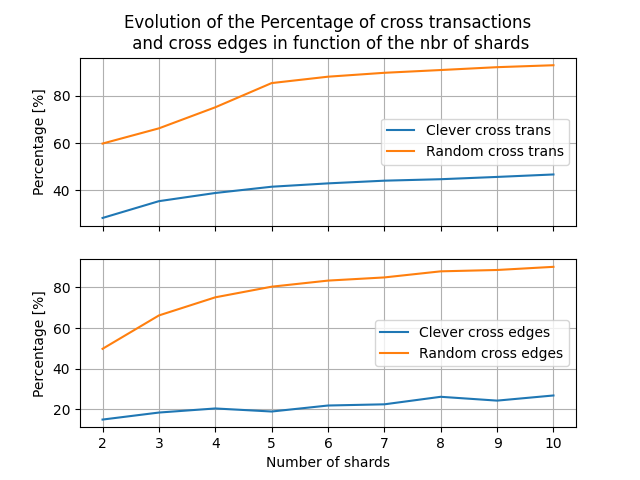
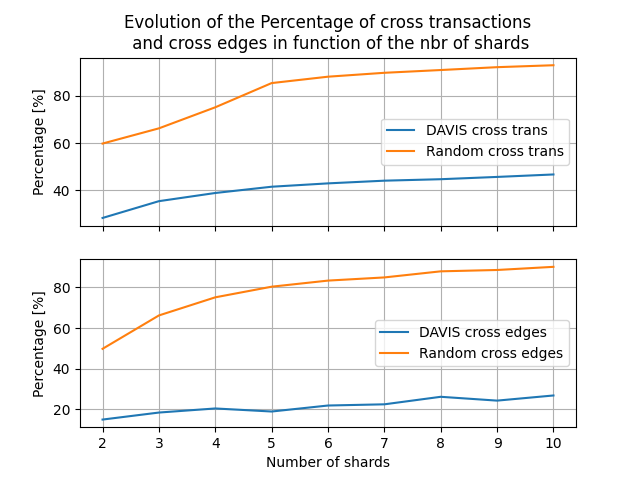
update

Changed region(s): [[0.6562, 0.6562, 0.875, 0.7188], [0.6562, 0.25, 0.875, 0.2812]]

diff --git a/chainspacemeasurements/chainspacemeasurements/Resultats/range_300k_300100/mode5/fakeGraph.py b/chainspacemeasurements/chainspacemeasurements/Resultats/range_300k_300100/mode5/fakeGraph.py
@@ -81,7 +81,7 @@ asymetricerrorStd = [tpsStd, tpsStd]
 x = shardList
 y = tpsMean
 fig, (ax0, ax1) = plt.subplots(nrows=2, sharex=True)
-ax0.errorbar(x, y, yerr=asymetricerrorStd, fmt='-o', label = "Clever")
+ax0.errorbar(x, y, yerr=asymetricerrorStd, fmt='-o', label = "DAVIS")
 ax0.set_ylabel("Tps")
 ax0.set_title("Evolution of the tps and latency in function of the nbr of shards")
 ax0.grid(True, which = "both")
@@ -89,7 +89,7 @@ ax0.grid(True, which = "both")
 
 y = LatMean
 asymetricerrorLatency = [LatStd, LatStd]
-ax1.errorbar(x, y, yerr=asymetricerrorLatency, fmt='-o', label = "Clever" )
+ax1.errorbar(x, y, yerr=asymetricerrorLatency, fmt='-o', label = "DAVIS" )
 ax1.set_ylabel("Latency[ms]")
 ax1.set_xlabel("Number of shards")
 ax1.grid(True, which = "both")
@@ -125,7 +125,7 @@ ax[0].set_title("Distribution of the tps in function of the number of shard used
 for row in range(rows):
 	nbr = len(allTps[shardList[row]-1][0])
 	y = [0]*nbr
-	ax[row].scatter(allTps[shardList[row]-1][0], y, label = 'clever')
+	ax[row].scatter(allTps[shardList[row]-1][0], y, label = 'DAVIS')
 	ax[row].set_ylabel('shard:'+str(shardList[row]))
 
 	
@@ -174,7 +174,7 @@ rcrossEdge = [49.81, 66.23, 75.14, 80.37, 83.37, 84.93, 87.93, 88.59, 90.14]
 rcrossTran = [59.79, 66.23, 75.14, 85.39, 88.09, 89.74, 90.91, 92.12, 92.94]
 
 fig, (ax0, ax1) = plt.subplots(nrows=2, sharex=True)
-ax0.plot(shardList, crossTran, label = "Clever cross trans")
+ax0.plot(shardList, crossTran, label = "DAVIS cross trans")
 ax0.plot(shardList, rcrossTran, label = "Random cross trans")
 
 ax0.set_ylabel("Percentage [%]")
@@ -182,7 +182,7 @@ ax0.set_title("Evolution of the Percentage of cross transactions\n and cross edg
 ax0.grid(True, which = "both")
 
 
-ax1.plot(shardList, crossEdge, label = "Clever cross edges" )
+ax1.plot(shardList, crossEdge, label = "DAVIS cross edges" )
 ax1.plot(shardList, rcrossEdge, label = "Random cross edges" )
 
 ax1.set_ylabel("Percentage [%]")
